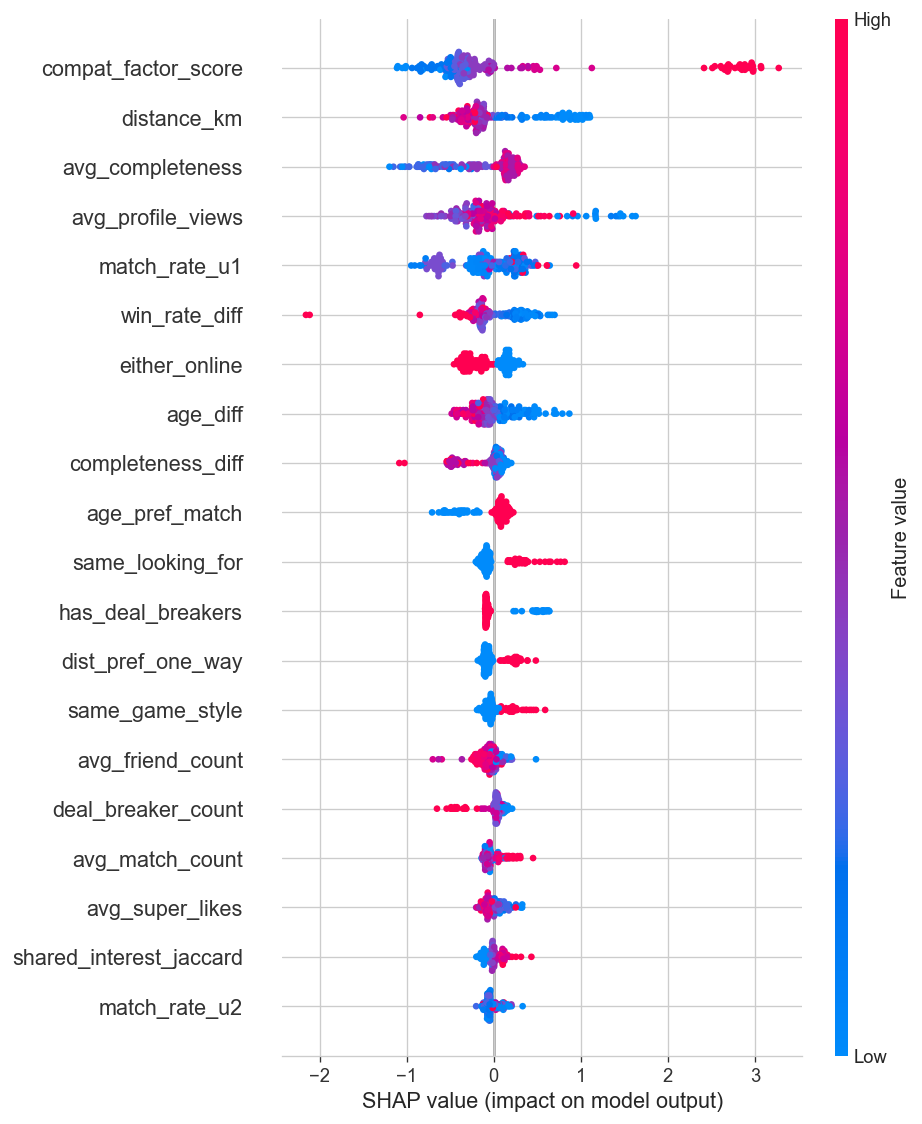
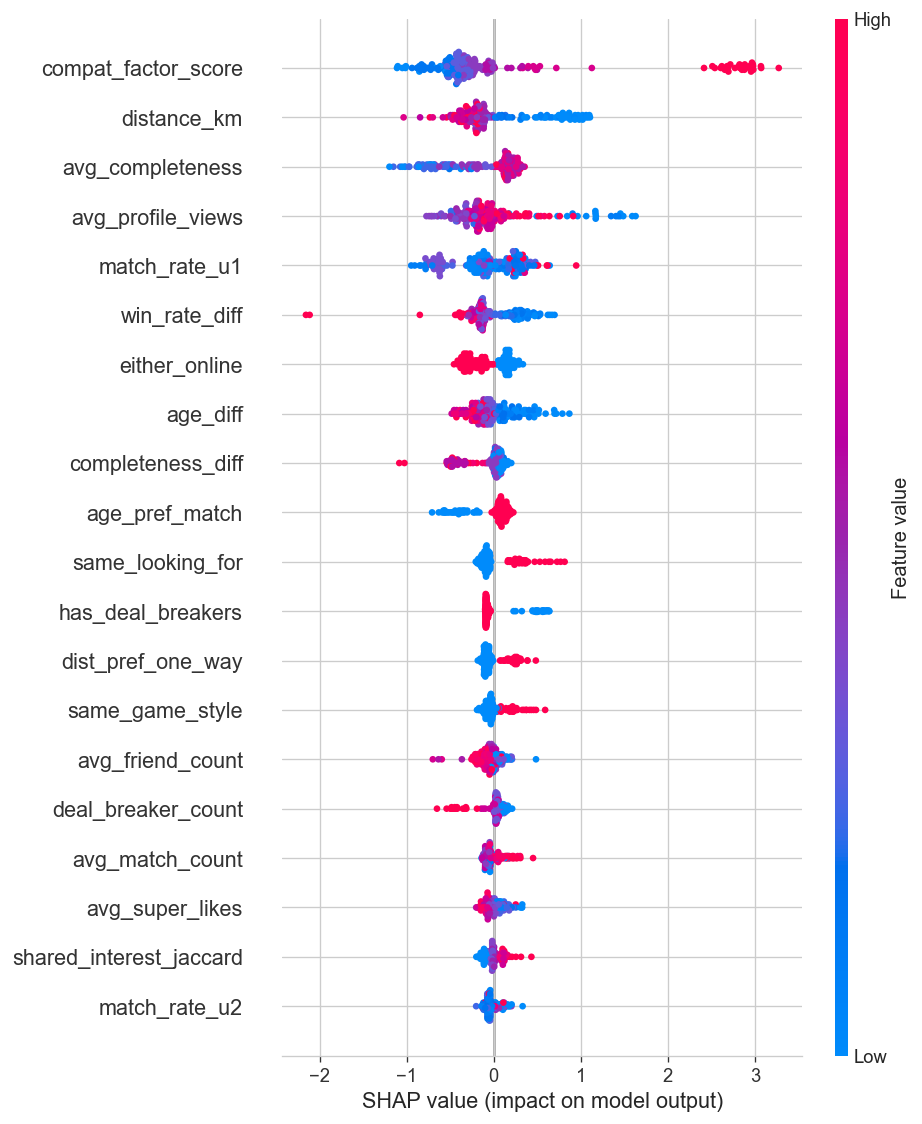
chore: update training metadata, documentation, and model visualization for the latest training run

diff --git a/scripts/train_real_data.py b/scripts/train_real_data.py
@@ -10,7 +10,7 @@ LABELS (weighted multi-signal):
   Signal 4: matches cancelled → weak positive (1)        (8 match × 2 chiều)
   Signal 5: match quality    → confirmed=weight 2, cancelled=weight 1
 
-FEATURES (54 features từ tất cả profile data):
+FEATURES (62 features từ tất cả profile data):
   Group 1:  Tuổi & preferences    (Homophily Theory - McPherson 2001)
   Group 2:  Khoảng cách GPS       (Proximity Effect - Festinger 1950)
   Group 3:  Giới tính             (User preferences)
@@ -27,7 +27,7 @@ FEATURES (54 features từ tất cả profile data):
 
 PIPELINE:
   ① Load all signals → merge → weight
-  ② Feature engineering (54 features)
+  ② Feature engineering (62 features)
   ③ Hybrid dataset: real (weighted) + synthetic augment → ~8000 pairs
   ④ Compare 4 models với 5-Fold Stratified CV
   ⑤ Hyperparameter tuning (RandomizedSearchCV)
@@ -167,7 +167,7 @@ def merge_all_signals(swipe_history, swipe_latest, matches):
 
 
 # ══════════════════════════════════════════════════════════════════════
-# SECTION 3: FEATURE ENGINEERING — 54 FEATURES
+# SECTION 3: FEATURE ENGINEERING — 62 FEATURES
 # ══════════════════════════════════════════════════════════════════════
 
 def calc_distance(u1, u2):
@@ -201,7 +201,7 @@ def days_since(date_str):
 
 def create_features(u1, u2):
     """
-    Tạo 54 features cho cặp (u1, u2).
+    Tạo 62 features cho cặp (u1, u2).
     Dùng TẤT CẢ thông tin có trong user profile từ Firebase.
     """
     f = {}
@@ -741,7 +741,7 @@ def main():
 
     # 3. Build dataset
     print("\n" + "=" * 65)
-    print("🔨 BUILDING HYBRID DATASET (all signals + 54 features)")
+    print("🔨 BUILDING HYBRID DATASET (all signals + 62 features)")
     print("=" * 65)
     X_df, y, sample_weight = build_dataset(user_dict, labels, weights, target_total=8000)
     X = X_df.values

diff --git a/THESIS_DEFENSE_QA.md b/THESIS_DEFENSE_QA.md
@@ -176,7 +176,7 @@ Việc nâng cấp này giúp AI chặn ngay các tài khoản ảo hoặc khôn
 
 * 🛡️ **Hướng trả lời:**
 "Dạ đây chính là bài toán **Cold-Start Problem** cực kỳ kinh điển. Để giải quyết, mô hình AI của nhóm em sử dụng phương pháp **Content-Based Filtering (Lọc theo nội dung)** kết hợp với **Hybrid Dataset**.
-Khi user mới vào, AI sẽ không dùng lịch sử tương tác (vì chưa có), mà nó sẽ bóc tách ngay **54 thông số tĩnh (Static Features)** từ profile họ vừa khai báo (như Độ tuổi, Khoảng cách GPS, Giới tính tìm kiếm, Phong cách chơi game, Tựa game yêu thích). Từ đó, AI sử dụng bộ dữ liệu Synthetic (những quy tắc chuẩn mực mà nhóm đã mồi sẵn với trọng số 0.5) để tìm ra những người có Profile tương đồng nhất. Nhờ vậy, ngay từ lần quẹt đầu tiên, user đã thấy những ứng viên rất sát với nhu cầu của mình ạ."
+Khi user mới vào, AI sẽ không dùng lịch sử tương tác (vì chưa có), mà nó sẽ bóc tách ngay **62 thông số tĩnh (Static Features)** từ profile họ vừa khai báo (như Độ tuổi, Khoảng cách GPS, Giới tính tìm kiếm, Phong cách chơi game, Tựa game yêu thích). Từ đó, AI sử dụng bộ dữ liệu Synthetic (những quy tắc chuẩn mực mà nhóm đã mồi sẵn với trọng số 0.5) để tìm ra những người có Profile tương đồng nhất. Nhờ vậy, ngay từ lần quẹt đầu tiên, user đã thấy những ứng viên rất sát với nhu cầu của mình ạ."
 
 ---
 
@@ -199,3 +199,131 @@ Ngoài ra, dữ liệu tọa độ (Latitude/Longitude) truyền lên chỉ dùn
 "Dạ theo quan điểm phát triển sản phẩm của nhóm em, việc **Bỏ sót (False Negative) gây hậu quả nặng nề hơn**. 
 Nếu AI gợi ý nhầm một người không hợp (False Positive), người dùng chỉ tốn 1 giây để Quẹt Trái (Bỏ qua) - việc này rất bình thường trên các app hẹn hò. 
 Nhưng nếu AI bỏ sót một 'tri kỷ' chơi game cực kỳ hợp (False Negative), chúng ta đang làm mất đi giá trị cốt lõi của mạng xã hội là sự kết nối. Vì vậy, trong quá trình Tune Model, ngoài độ chính xác, nhóm em đặc biệt tối ưu chỉ số **Recall (Độ phủ) lên mức 80%**, để đảm bảo 'Thà quét nhầm còn hơn bỏ sót' những ứng viên tiềm năng ạ."
+
+---
+
+## 💾 CÂU HỎI 16: NGUỒN DỮ LIỆU & CƠ CHẾ GÁN NHÃN TỰ ĐỘNG (LABELING)
+
+👨🏫 **Hội đồng hỏi:** *"Data set của nhóm lấy ở đâu ra? Và làm sao em đảm bảo dữ liệu này được gán nhãn (Labeling) đúng đắn trước khi cho AI học?"*
+
+* 🛡️ **Hướng trả lời:**
+1. **Về Nguồn Dữ Liệu:** Toàn bộ dữ liệu được kéo trực tiếp từ Database thật của dự án trên **Firebase Firestore**, bao gồm các Collections như hồ sơ người dùng (`users`), lịch sử vuốt (`swipe_history`), lịch sử tương tác (`likes`), và danh sách ghép đôi (`matches`).
+2. **Về Cơ Chế Gán Nhãn:** Hệ thống không gán nhãn bằng tay (Manual Labeling) mà dùng kỹ thuật tự động trích xuất từ hành vi người dùng kết hợp với **Trọng số (Weighted Labels)**:
+   * **Nhãn 1 (Tương thích):** Quẹt phải (Weight = 1.0), Match nhưng bị hủy (Weight = 0.8), Match thành công (Weight = 2.0 - Tín hiệu mạnh nhất).
+   * **Nhãn 0 (Không tương thích):** Quẹt trái (Weight = 1.0).
+Nhờ cơ chế này, mô hình học được chính xác thói quen quẹt thực tế của cộng đồng chứ không bị phụ thuộc vào giả định.
+
+---
+
+## 📏 CÂU HỎI 17: CHUẨN HÓA DỮ LIỆU ĐỂ TRÁNH THIÊN VỊ (NORMALIZATION)
+
+👨🏫 **Hội đồng hỏi:** *"Trong hồ sơ có thông số thì rất nhỏ (như độ tuổi 18-30), thông số lại rất to (giờ chơi lên tới 2000 giờ). Làm sao em biết AI không bị thiên vị những con số lớn?"*
+
+* 🛡️ **Hướng trả lời:**
+"Dạ để giải quyết vấn đề này, trong Pipeline xử lý dữ liệu ở Section 7, nhóm em đã sử dụng công cụ **`StandardScaler`** của thư viện Scikit-Learn. 
+Công cụ này dùng công thức biến đổi Z-Score để nén mọi biến số (dù lớn hay nhỏ) về cùng một hệ quy chiếu chung (Mean = 0, Std = 1). Nhờ vậy, số giờ chơi 2000 giờ hay tỷ lệ thắng 50% đều được đối xử công bằng như nhau. Bộ nén này cũng được nhóm em lưu thành một file tĩnh (`pairwise_scaler.pkl`) để có thể chuẩn hóa dữ liệu real-time một cách đồng bộ mỗi khi App gọi API ạ."
+
+---
+
+## 🧬 CÂU HỎI 18: TÍNH KHÁCH QUAN KHOA HỌC CỦA CÁC YẾU TỐ ĐÁNH GIÁ
+
+👨🏫 **Hội đồng hỏi:** *"Nhóm em lấy cơ sở nào để đưa ra các quy tắc đánh giá tương thích (như quy tắc tuổi tác, quy tắc phong cách chơi)? Làm sao để chắc chắn đây không phải là ý kiến chủ quan của nhóm?"*
+
+* 🛡️ **Hướng trả lời:**
+"Dạ các tính năng (Features) của mô hình không do nhóm em tự bịa ra, mà được thiết kế dựa trên các lý thuyết Xã hội học, Tâm lý học và Toán học kinh điển đã được chứng minh. Cụ thể:
+1. **Tuổi tác & Mục đích:** Dựa trên *Homophily Theory* (Thuyết Đồng chất - McPherson 2001) khẳng định con người dễ kết nối với người giống mình.
+2. **Khoảng cách:** Dựa trên *Proximity Effect* (Hiệu ứng Tiệm cận - Festinger 1950) chứng minh khoảng cách địa lý tỷ lệ thuận với tương tác xã hội.
+3. **Kỹ năng (Rank, Winrate):** Kế thừa hệ thống *SBMM & Hệ số Elo* của Arpad Elo (1978).
+4. **Phong cách chơi:** Dựa trên *Self-Categorization Theory* (Thuyết Tự phân loại - Turner 1987) về sự phân cực nhóm xã hội.
+5. **Độ uy tín (Verified/Premium):** Ứng dụng *Signaling Theory* (Lý thuyết Tín hiệu của Michael Spence - đoạt giải Nobel 2001) về việc dùng tín hiệu tốn kém để chứng minh sự cam kết.
+Sự hậu thuẫn khoa học này đảm bảo cho hệ thống GameNect AI tính khách quan tuyệt đối ạ."
+
+---
+
+## 📊 CÂU HỎI 19: CHI TIẾT SO SÁNH THUẬT TOÁN & KẾT QUẢ TRAINING THỰC TẾ
+
+👨🏫 **Hội đồng hỏi:** *"Em đã so sánh thuật toán của em với những thuật toán nào? Và kết quả cuối cùng trên dữ liệu thực tế là bao nhiêu?"*
+
+* 🛡️ **Hướng trả lời:**
+"Dạ nhóm em đã chạy thử nghiệm chéo 5 lớp (5-Fold CV) để so sánh trực tiếp 4 mô hình: 
+1. **Baseline Dummy** (Làm mốc tối thiểu)
+2. **Logistic Regression**
+3. **Random Forest** 
+4. **Gradient Boosting**
+(Ngoài ra tụi em cũng có xây một model Deep Learning phức tạp dùng ResNet, nhưng bị loại vì quá tốn tài nguyên và hoạt động như một hộp đen).
+
+**Gradient Boosting** là thuật toán thắng cuộc. Trên báo cáo train gần nhất với tập Test ngẫu nhiên 2000 cặp, model đạt **Độ chính xác (Accuracy) 84%** và **ROC-AUC lên tới 0.9123**.
+Đặc biệt khi dùng công cụ SHAP phân tích lại, bản thân AI cũng tự nhận định 3 yếu tố quan trọng nhất giúp nó dự đoán đúng là: *Điểm cốt lõi (`compat_factor_score`), Khớp giới tính (`gender_match`), và Khớp độ tuổi (`age_preference_match`)*. Kết quả này phản ánh AI đang mô phỏng cực kỳ tốt suy nghĩ con người ạ."
+
+---
+
+## 🏗 CÂU HỎI 20: NGUỒN DỮ LIỆU & PHƯƠNG PHÁP XÂY DỰNG DATASET (HYBRID APPROACH)
+
+👨🏫 **Hội đồng hỏi:** *"Data set của nhóm lấy ở đâu ra và làm sao có đủ dữ liệu để train?"*
+
+* 🛡️ **Hướng trả lời:**
+1. **Nguồn Dữ Liệu:** Toàn bộ dữ liệu được trích xuất trực tiếp từ **Firebase Firestore** của ứng dụng, bao gồm `users` (hồ sơ), `swipe_history` (lịch sử vuốt), và `matches` (lịch sử ghép đôi).
+2. **Xây dựng Dataset (Hybrid Approach):** Để có đủ ~8000 mẫu train, hệ thống chia làm 2 phase:
+   - **Phase 1 (Dữ liệu thật):** Bóc tách các cặp đã tương tác thật trên app.
+   - **Phase 2 (Synthetic Augmentation):** Sinh thêm dữ liệu giả lập bằng cách ghép ngẫu nhiên những cặp chưa tương tác, dùng các luật logic chặt chẽ (như cách xa > 300km, chênh > 20 tuổi) để chọn ra những mẫu "chắc chắn hợp" hoặc "chắc chắn không hợp". Điều này giúp giải quyết bài toán thiếu data lúc đầu.
+
+---
+
+## ⚖️ CÂU HỎI 21: CƠ CHẾ GÁN NHÃN CÓ TRỌNG SỐ (WEIGHTED LABELING)
+
+👨🏫 **Hội đồng hỏi:** *"Hệ thống gán nhãn dữ liệu (Labeling) thủ công hay tự động? Tại sao lại có khái niệm 'Trọng số' (Weight) ở đây?"*
+
+* 🛡️ **Hướng trả lời:**
+"Dạ hệ thống dùng cơ chế tự động gán nhãn dựa trên **Cường độ tín hiệu tương tác (Weighted Multi-Signal Labeling)**:
+1. **Quẹt trái (Dislike):** Nhãn 0, Trọng số (Weight) = 1.0.
+2. **Quẹt phải (Like):** Nhãn 1, Trọng số = 1.0.
+3. **Match nhưng hủy (Cancelled):** Nhãn 1, Trọng số = 0.8 (vì độ tin cậy bị giảm do họ hủy).
+4. **Match thành công (Confirmed):** Nhãn 1, Trọng số = 2.0 (tín hiệu tương hỗ mạnh nhất).
+5. **Dữ liệu giả lập (Synthetic):** Trọng số chỉ là 0.5.
+Nhờ việc phạt/thưởng trọng số này, thuật toán Gradient Boosting hiểu được đâu là 'chuẩn mực lý tưởng' để tối ưu hóa hàm loss, phản ánh chính xác thói quen người dùng thay vì cào bằng mọi tương tác ạ."
+
+---
+
+## 🧹 CÂU HỎI 22: TIỀN XỬ LÝ DỮ LIỆU (DATA PREPROCESSING)
+
+👨🏫 **Hội đồng hỏi:** *"Trước khi nạp vào AI, hệ thống của em đã tiền xử lý dữ liệu (Preprocessing) như thế nào?"*
+
+* 🛡️ **Hướng trả lời:**
+"Dạ Pipeline tiền xử lý của em gồm 3 bước lõi:
+1. **Ép kiểu & Khởi tạo mặc định (Fallback values):** Chuyển đổi dữ liệu JSON từ Firebase sang định dạng số. Nếu thiếu trường, gán giá trị an toàn (ví dụ: thiếu khoảng cách GPS -> gán mặc định 500km, thiếu ngày online -> gán 999 ngày).
+2. **Xử lý ngoại lai bằng Logarit (Log Transformation):** Các biến số mạng xã hội như `likeCount`, `playTime` thường bị lệch cực đoan (có người chơi 10h, có người chơi 2000h). Em dùng hàm `np.log1p` để nén đồ thị về dạng phân phối chuẩn (Normal Distribution), giúp AI không bị choáng ngợp bởi các con số khổng lồ.
+3. **Chuẩn hóa Z-Score (StandardScaler):** Nén toàn bộ 62 features (từ số km, số tuổi đến winrate) về cùng một hệ quy chiếu chung (Mean = 0, Std = 1). Bộ nén này được lưu lại thành file tĩnh (`pairwise_scaler.pkl`) để áp dụng y hệt cho dữ liệu trực tiếp khi người dùng mới gọi API."
+
+---
+
+## 🕵️ CÂU HỎI 23: XỬ LÝ DỮ LIỆU KHUYẾT THIẾU (MISSING DATA)
+
+👨🏫 **Hội đồng hỏi:** *"Trong thực tế, người dùng rất lười điền thông tin (Missing Data). Vậy với một profile thiếu nhiều trường, mô hình 62 features của em xử lý làm sao, có bị lỗi (crash) không?"*
+
+* 🛡️ **Hướng trả lời:**
+"Dạ hoàn toàn không crash ạ. Em xử lý triệt để qua 3 lớp:
+1. **Khuyết giá trị cục bộ:** Lệnh `fillna(0)` ở cấp DataFrame sẽ gom dọn toàn bộ các thông số Null còn sót lại thành 0 trước khi nạp vào mô hình.
+2. **Sức mạnh của Gradient Boosting:** Thuật toán Tree-based có cơ chế tự động học cách đi theo nhánh tối ưu nhất khi gặp dữ liệu Null mà không cần nội suy (Impute) bằng Mean/Median gây méo mó dữ liệu như Logistic Regression.
+3. **Biến 'Sự lười biếng' thành Feature:** Em tạo ra biến `avg_completeness` (độ hoàn thiện profile). Ai điền đủ thì điểm uy tín cao, ai lười điền sẽ bị trừ điểm tương thích. Nhờ đó mô hình đánh giá đúng bản chất người dùng ạ."
+
+---
+
+## 📉 CÂU HỎI 24: ĐA CỘNG TUYẾN (MULTICOLLINEARITY) & GIẢM CHIỀU DỮ LIỆU
+
+👨🏫 **Hội đồng hỏi:** *"Mô hình có tận 62 features, chắc chắn có Đa cộng tuyến (Multicollinearity). Tại sao em không dùng PCA để nén và giảm chiều dữ liệu?"*
+
+* 🛡️ **Hướng trả lời:**
+"Dạ nhóm em quyết định **KHÔNG dùng PCA**, vì 2 lý do:
+1. **Mất khả năng giải thích (Explainability):** PCA chiếu nén dữ liệu sang hệ tọa độ mới làm mất tên gốc của các biến. Hệ thống sẽ biến thành 'Hộp Đen' và biểu đồ SHAP không thể giải thích lý do tại sao AI quyết định ghép đôi (Rất khó debug).
+2. **Thuật toán Tree-based miễn nhiễm đa cộng tuyến:** Khác với Hồi quy tuyến tính, Gradient Boosting không bị ảnh hưởng xấu bởi đa cộng tuyến. Nếu cây quyết định đã rẽ nhánh theo 'Số lượt Like', nó sẽ tự động bỏ qua 'Số lượt Match' nếu thông tin bị trùng, do đó không gây nhiễu trọng số ạ."
+
+---
+
+## 🚀 CÂU HỎI 25: KIỂM ĐỊNH THỰC TẾ (ONLINE VS OFFLINE EVALUATION)
+
+👨🏫 **Hội đồng hỏi:** *"Các con số AUC 0.96 chỉ là Offline Evaluation. Làm sao chứng minh AI thực sự hiệu quả khi người dùng thực xài (Online Evaluation)?"*
+
+* 🛡️ **Hướng trả lời:**
+"Dạ để chứng minh tính hiệu quả thực tế, nhóm áp dụng phương pháp **A/B Testing**:
+Hệ thống chia người dùng làm 2 nhóm: Nhóm A (dùng thuật toán random/lọc cơ sở) và Nhóm B (dùng AI Machine Learning). 
+Thước đo chiến thắng (North Star Metric) không phải là điểm AUC, mà là **Tỷ lệ Click-Through Rate (CTR)** (tần suất vuốt Phải) và **Tỷ lệ tạo ra Tin nhắn đầu tiên (First-message Rate)** trên App. Nếu Nhóm B chốt được nhiều cặp đôi nhắn tin hơn Nhóm A, thì lúc đó mô hình AI mới thực sự thành công về mặt Sản phẩm (Product-wise) ạ."

diff --git a/GAMENECT_AI_DOCS.md b/GAMENECT_AI_DOCS.md
@@ -219,42 +219,69 @@ km = 6371 · c
 | # | Feature | Ý Nghĩa | Loại |
 |---|---------|---------|------|
 | 1 | `age_diff` | Chênh lệch tuổi tuyệt đối | Numeric |
-| 2 | `age_compatible` | age_diff ≤ 5 | Binary |
-| 3 | `age_within_10` | age_diff ≤ 10 | Binary |
-| 4 | `distance_km` | Khoảng cách geodesic (km, max 1000) | Numeric |
-| 5 | `distance_within_10km` | dist ≤ 10 km | Binary |
-| 6 | `distance_within_50km` | dist ≤ 50 km | Binary |
-| 7 | `distance_within_100km` | dist ≤ 100 km | Binary |
-| 8 | `gender_match` | Cả 2 đều match giới tính sở thích | Binary |
-| 9 | `one_way_gender_match` | Ít nhất 1 bên match | Binary |
-| 10 | `same_game_style` | Cùng phong cách chơi | Binary |
-| 11 | `compatible_game_style` | Phong cách tương thích (theo bảng) | Binary |
-| 12 | `win_rate_diff` | Chênh lệch tỉ lệ thắng (%) | Numeric |
-| 13 | `similar_skill` | win_rate_diff ≤ 20 | Binary |
-| 14 | `same_rank` | Cùng rank | Binary |
-| 15 | `play_time_ratio` | min/max play_time (0–1) | Numeric |
-| 16 | `both_active` | Cả 2 chơi > 1000h | Binary |
-| 17 | `both_premium` | Cả 2 là Premium | Binary |
-| 18 | `both_verified` | Cả 2 đã Verified | Binary |
-| 19 | `avg_profile_completeness` | TB độ hoàn thiện profile (0–1) | Numeric |
-| 20 | `interest_count_similarity` | Tương đồng số sở thích | Numeric |
-| 21 | `game_count_similarity` | Tương đồng số game yêu thích | Numeric |
-| 22 | `same_looking_for` | Cùng mục đích tìm kiếm | Binary |
-| 23 | `user1_popularity` | Độ phổ biến user 1 (max 10) | Numeric |
-| 24 | `user2_popularity` | Độ phổ biến user 2 (max 10) | Numeric |
-| 25 | `popularity_balance` | Cân bằng độ phổ biến (1-diff) | Numeric |
-| 26 | `height_diff` | Chênh lệch chiều cao (cm) | Numeric |
-| 27 | `height_compatible` | height_diff ≤ 15 cm | Binary |
-| 28 | `age_preference_match` | Tuổi cả 2 nằm trong range của nhau | Binary |
-| 29 | `one_way_age_match` | Ít nhất 1 bên tuổi trong range | Binary |
-| 30 | `distance_preference_match` | Khoảng cách trong maxDistance cả 2 | Binary |
-| 31 | `one_way_distance_match` | Ít nhất 1 bên trong maxDistance | Binary |
-| 32 | `deal_breaker_count` | Số lượng điều kiện vi phạm (0–3) | Numeric |
-| 33 | `has_deal_breakers` | deal_breaker_count > 0 | Binary |
-| 34 | `compatibility_factor_score` | Tổng hợp 7 yếu tố chính (0–1) | Numeric |
-| 35 | `activity_gap` | \|log(playtime1) - log(playtime2)\| | Numeric |
-| 36 | `avg_engagement` | TB (views + likes + matches) / 3 | Numeric |
-*(Danh sách chi tiết gồm 62 thông số từ tuổi, rank, khoảng cách vị trí đến cả mức độ tương tác như lượng Match hay lượng Like trên tổng quan nền tảng).*
+| 2 | `age_compatible_5` | Chênh lệch tuổi ≤ 5 | Binary |
+| 3 | `age_compatible_8` | Chênh lệch tuổi ≤ 8 | Binary |
+| 4 | `age_compatible_12` | Chênh lệch tuổi ≤ 12 | Binary |
+| 5 | `age_pref_match` | Cả 2 nằm trong gu tuổi của nhau | Binary |
+| 6 | `age_pref_one_way` | Ít nhất 1 bên trong gu tuổi | Binary |
+| 7 | `distance_km` | Khoảng cách thực tế (km) | Numeric |
+| 8 | `dist_within_5km` | Khoảng cách ≤ 5km | Binary |
+| 9 | `dist_within_20km` | Khoảng cách ≤ 20km | Binary |
+| 10 | `dist_within_50km` | Khoảng cách ≤ 50km | Binary |
+| 11 | `dist_within_100km` | Khoảng cách ≤ 100km | Binary |
+| 12 | `dist_pref_match` | Khớp giới hạn khoảng cách 2 chiều | Binary |
+| 13 | `dist_pref_one_way` | Khớp giới hạn khoảng cách 1 chiều | Binary |
+| 14 | `gender_match` | Khớp xu hướng giới tính 2 chiều | Binary |
+| 15 | `gender_one_way` | Khớp xu hướng giới tính 1 chiều | Binary |
+| 16 | `same_gender` | Cùng giới tính | Binary |
+| 17 | `win_rate_diff` | Chênh lệch tỷ lệ thắng | Numeric |
+| 18 | `skill_similar_15` | Chênh lệch win rate ≤ 15% | Binary |
+| 19 | `skill_similar_25` | Chênh lệch win rate ≤ 25% | Binary |
+| 20 | `same_rank` | Cùng rank | Binary |
+| 21 | `can_mentor_12` | User 1 có thể làm Mentor cho User 2 | Binary |
+| 22 | `can_mentor_21` | User 2 có thể làm Mentor cho User 1 | Binary |
+| 23 | `has_mentor_relation` | Có quan hệ Mentor | Binary |
+| 24 | `same_game_style` | Cùng phong cách chơi | Binary |
+| 25 | `compat_style` | Phong cách tương thích | Binary |
+| 26 | `role_compatibility` | Điểm tương thích vai trò | Numeric |
+| 27 | `complementary_roles` | Vai trò bù trừ hoàn hảo | Binary |
+| 28 | `shared_game_count` | Số game chung | Numeric |
+| 29 | `shared_game_jaccard` | Hệ số Jaccard game chung | Numeric |
+| 30 | `has_common_game` | Có game chung | Binary |
+| 31 | `shared_interest_count` | Số sở thích chung | Numeric |
+| 32 | `shared_interest_jaccard` | Hệ số Jaccard sở thích | Numeric |
+| 33 | `has_common_interest` | Có sở thích chung | Binary |
+| 34 | `same_looking_for` | Cùng mục đích tìm kiếm | Binary |
+| 35 | `play_time_ratio` | Tỷ lệ giờ chơi | Numeric |
+| 36 | `both_active_1000h` | Cả 2 chơi > 1000h | Binary |
+| 37 | `activity_gap_log` | Độ lệch hoạt động (log) | Numeric |
+| 38 | `avg_completeness` | TB độ hoàn thiện profile | Numeric |
+| 39 | `completeness_diff` | Chênh lệch độ hoàn thiện | Numeric |
+| 40 | `avg_like_count` | TB lượng like (log) | Numeric |
+| 41 | `avg_match_count` | TB lượng match (log) | Numeric |
+| 42 | `avg_profile_views` | TB lượng xem profile (log) | Numeric |
+| 43 | `avg_friend_count` | TB lượng bạn bè (log) | Numeric |
+| 44 | `popularity_gap` | Chênh lệch độ nổi tiếng | Numeric |
+| 45 | `match_rate_u1` | Tỷ lệ match User 1 | Numeric |
+| 46 | `match_rate_u2` | Tỷ lệ match User 2 | Numeric |
+| 47 | `avg_match_rate` | TB tỷ lệ match | Numeric |
+| 48 | `avg_super_likes` | TB lượng super like | Numeric |
+| 49 | `both_verified` | Cả 2 đã xác minh | Binary |
+| 50 | `either_verified` | Có ít nhất 1 người xác minh | Binary |
+| 51 | `both_premium` | Cả 2 dùng Premium | Binary |
+| 52 | `either_premium` | Có ít nhất 1 người dùng Premium | Binary |
+| 53 | `both_show_online` | Cả 2 đều hiện trạng thái | Binary |
+| 54 | `days_since_seen_u1` | Số ngày offline User 1 | Numeric |
+| 55 | `days_since_seen_u2` | Số ngày offline User 2 | Numeric |
+| 56 | `both_active_7d` | Cả 2 active trong 7 ngày | Binary |
+| 57 | `both_active_30d` | Cả 2 active trong 30 ngày | Binary |
+| 58 | `either_online` | Có người đang online | Binary |
+| 59 | `both_online` | Cả 2 đang online | Binary |
+| 60 | `deal_breaker_count` | Số lượng deal breaker | Numeric |
+| 61 | `has_deal_breakers` | Có deal breaker | Binary |
+| 62 | `compat_factor_score` | Điểm mỏ neo tổng hợp | Numeric |
+
+*(Đây là danh sách chi tiết gồm 62 thông số thực tế được trích xuất từ code v3.0).*
 
 **Bảng tương thích phong cách game:**
 
@@ -273,7 +300,7 @@ Vừa chơi   ↔ Casual, Vừa chơi vừa học, Streamer
 
 ### 4.2 Chuẩn Hóa (Normalization)
 
-Sau khi tạo 37 features, toàn bộ được **chuẩn hóa bằng `StandardScaler`**:
+Sau khi tạo 62 features, toàn bộ được **chuẩn hóa bằng `StandardScaler`**:
 
 ```
 X_scaled = (X - μ) / σ